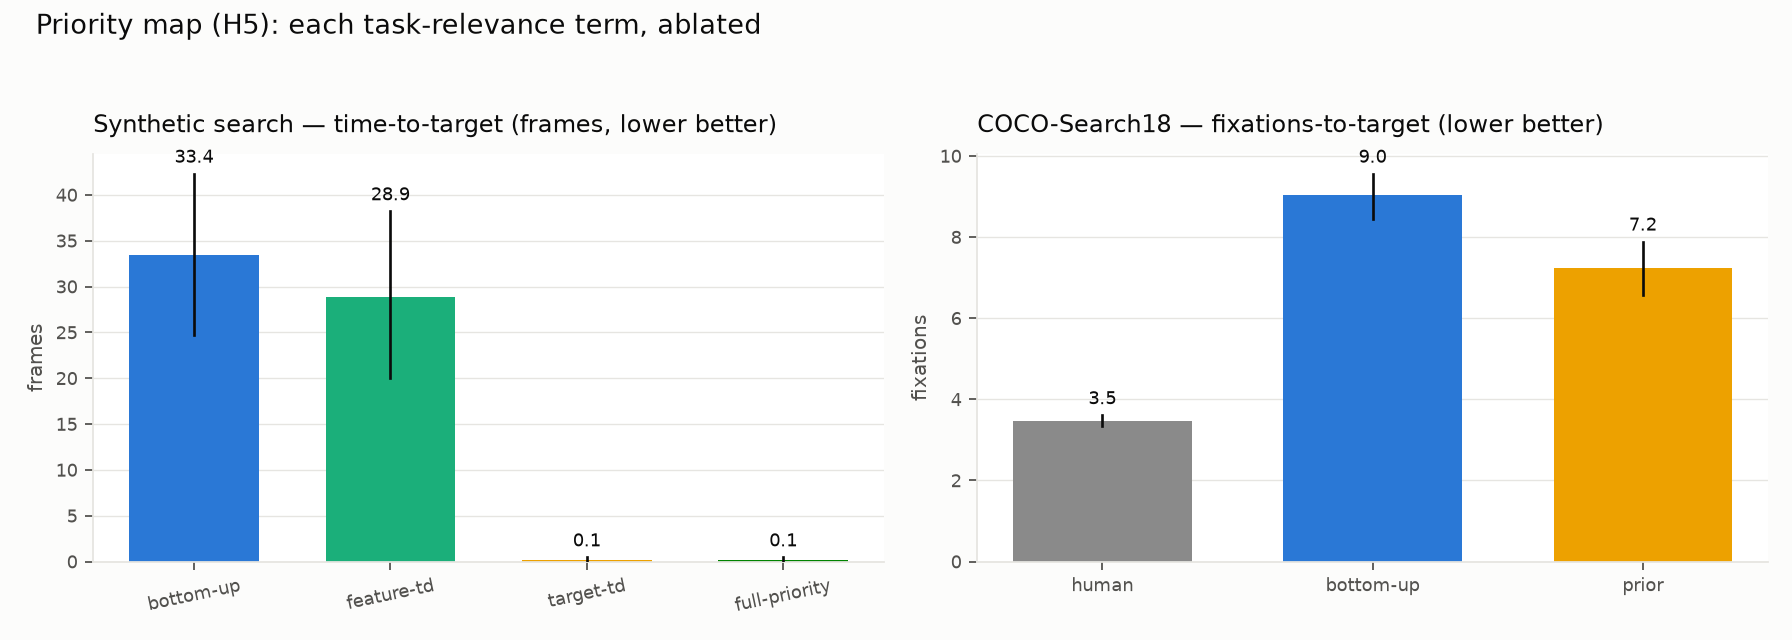
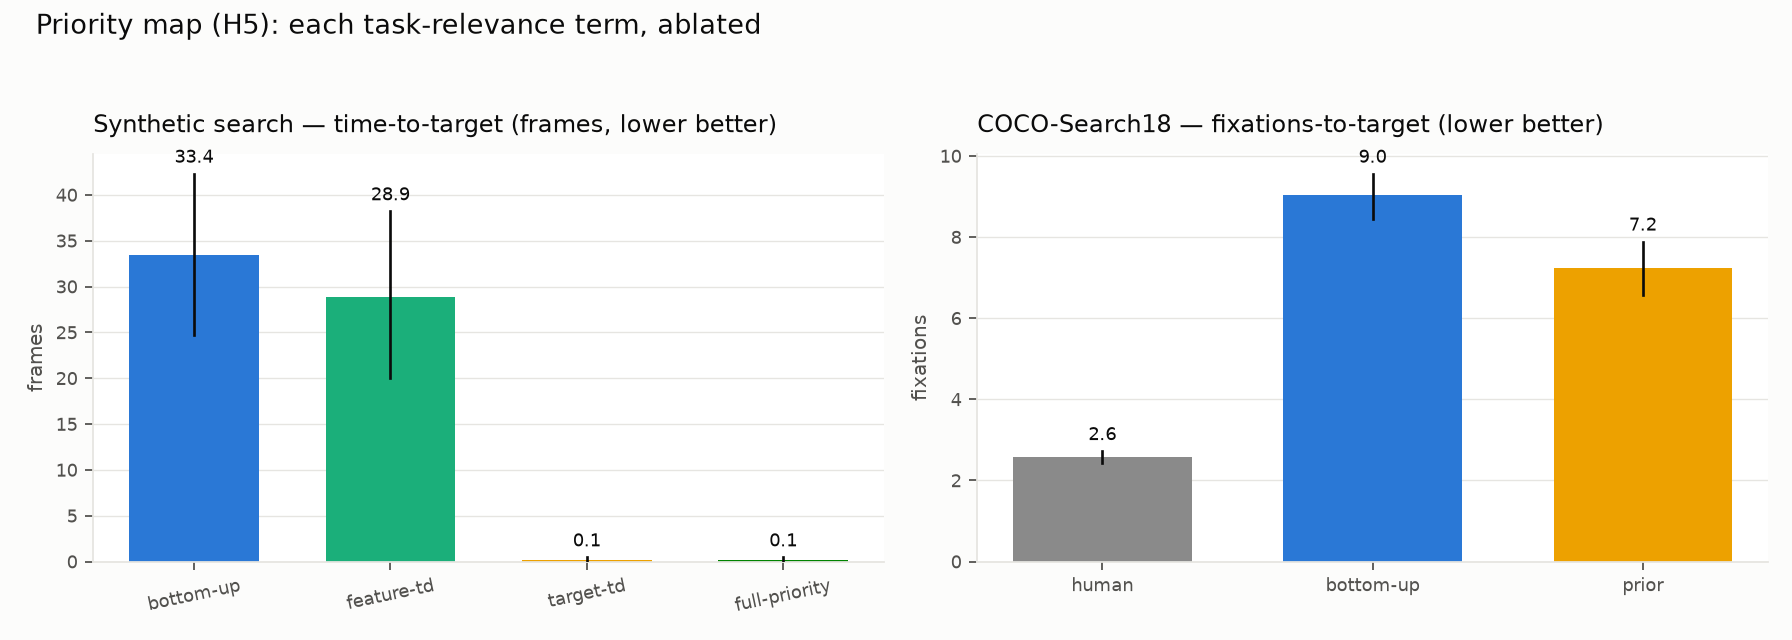
M17: fix review findings — honest COCO baseline, crash guards, dedup
Adversarial review (multi-agent, high) surfaced measurement bugs in the eval
scorers and robustness gaps in the priority core; all fixed:

Measurement (affected published numbers):
- COCO-Search18 human baseline was on a different scale than the model: it
  counted the enforced central start fixation and was uncapped. Strip the
  start fixation (cocosearch18.fixations_to_target skip_initial) and cap human
  ftt at the model budget -> corrected human mean 3.47 -> 2.58 (humans are
  *better* than first reported; the model's gap widens, conclusion unchanged).
- coco_search --cap now plumbs into the model's max_count, so found@N and
  mean-ftt describe the budget the model actually ran.
- priority_search found_rate compared against max(times) instead of the frames
  penalty, so an all-found arm scored <1.0; fixed to the penalty threshold.

Correctness:
- HistoryChannels::apply size-guards the location term (was a cv::Exception on
  a mid-stream resolution change with location history on).
- parse_colour catches non-hex #specs and raises the friendly error, not a raw
  stoi throw.
- TopDownChannel ctor no longer imreads/parses when the channel is off
  (weight 0), so a stale/missing map path can't fail a disabled build.
- make_dynamic_scene --target validates against --objects.

Cleanup: shared study_common.bootstrap_ci (was duplicated); help test for
plot_priority_search.py; unit tests for the colour and size-guard paths.
Numbers and figure re-generated; docs updated.
[…]

Changed region(s): [[0.5625, 0.6562, 0.6875, 0.7188]]

diff --git a/eval/coco_search.py b/eval/coco_search.py
@@ -24,18 +24,22 @@ One command:  eval/coco_search.py --limit 150
 import argparse
 import json
 import os
-import random
 import subprocess
 import sys
 
+sys.path.insert(0, os.path.dirname(os.path.abspath(__file__)))
+from study_common import bootstrap_ci  # noqa: E402
+
 PRIOR_W, PRIOR_H = 336, 210  # prior raster (display aspect); resized by the core
 
+# %(cap)s is the model's fixation budget — the same cap the scores use, so the
+# model never emits more fixations than found@N / mean-ftt account for.
 BOTTOM_UP_YAML = """\
 pipeline:
   fusion: weighted-sum
   selection: ior
 peaks:
-  max_count: 10
+  max_count: %(cap)s
   threshold: 0.05
 output:
   display: false
@@ -118,18 +122,6 @@ def first_hit(fixations, bbox, cap):
     return cap + 1
 
 
-def bootstrap_ci(values, iterations=2000, seed=0):
-    if not values:
-        return (0.0, 0.0)
-    rng = random.Random(seed)
-    means = []
-    for _ in range(iterations):
-        sample = [rng.choice(values) for _ in values]
-        means.append(sum(sample) / len(sample))
-    means.sort()
-    return means[int(0.025 * iterations)], means[int(0.975 * iterations)]
-
-
 def main():
     ap = argparse.ArgumentParser(description=__doc__,
                                  formatter_class=argparse.RawDescriptionHelpFormatter)
@@ -169,18 +161,23 @@ def main():
         w, h = image_size(str(image))
         bbox = records[0]["bbox"]
 
-        # Human baseline: correct trials of this image (1-based fixation index).
+        # Human baseline: correct trials of this image, capped at the same
+        # budget as the model (cap+1 = "not found within budget") so the two
+        # columns are on one scale. The initial central fixation is stripped
+        # inside fixations_to_target, matching the model's first-free-saccade.
         for record in records:
             if record["correct"] != 1:
                 continue
             hit = adapter.fixations_to_target(record, w, h)
-            human.append(hit if hit is not None else args.cap + 1)
+            human.append(min(hit, args.cap + 1) if hit is not None else args.cap + 1)
 
         work = os.path.join(args.out, "runs", "%s_%s" % (task.replace(" ", "_"),
                                                          os.path.splitext(name)[0]))
-        fx = run_model(args.binary, image, BOTTOM_UP_YAML, work, "bottom_up")
+        bottom_up_yaml = BOTTOM_UP_YAML % {"cap": args.cap}
+        fx = run_model(args.binary, image, bottom_up_yaml, work, "bottom_up")
         bottom_up.append(first_hit(fx, bbox, args.cap))
-        prior_yaml = PRIOR_YAML % {"weight": args.top_down_weight, "map": priors[task]}
+        prior_yaml = PRIOR_YAML % {"cap": args.cap, "weight": args.top_down_weight,
+                                   "map": priors[task]}
         fx = run_model(args.binary, image, prior_yaml, work, "prior")
         prior.append(first_hit(fx, bbox, args.cap))
         if (n + 1) % 25 == 0:

diff --git a/tests/test_priority.cpp b/tests/test_priority.cpp
@@ -5,6 +5,7 @@
 #include "attention/config/config_loader.h"
 #include "attention/fusion/priority_map.h"
 #include <catch2/catch_test_macros.hpp>
+#include <catch2/matchers/catch_matchers_string.hpp>
 #include <cstdio>
 #include <fstream>
 #include <string>
@@ -37,6 +38,30 @@ TEST_CASE("parse_colour: named, hex, and rejection", "[priority]")
   CHECK(fusion::parse_colour("red") == cv::Vec3b(0, 0, 220));
   CHECK(fusion::parse_colour("#0080ff") == cv::Vec3b(255, 128, 0)); // BGR
   CHECK_THROWS_AS(fusion::parse_colour("not-a-colour"), std::runtime_error);
+  // A #-prefixed non-hex spec still surfaces the friendly error, not a raw
+  // stoi std::invalid_argument.
+  CHECK_THROWS_WITH(fusion::parse_colour("#gggggg"), Catch::Matchers::ContainsSubstring("Unparseable"));
+}
+
+TEST_CASE("inactive top-down channel ignores a stale/missing map path", "[priority]")
+{
+  // weight 0 = channel off: a leftover (here missing) map path must not throw
+  // at construction.
+  fusion::PriorityConfig config;
+  config.top_down_map_path = "no/such/map.png";
+  CHECK_NOTHROW(fusion::TopDownChannel(config));
+}
+
+TEST_CASE("location history term is size-guarded against a resolution change", "[priority]")
+{
+  fusion::PriorityConfig config;
+  config.location_history_weight = 1.0f;
+  fusion::HistoryChannels history(config);
+  history.decay_and_record(cv::Point(10, 10), cv::Size(120, 80), true);
+
+  // A later frame at a different resolution must not throw a size mismatch.
+  cv::Mat smaller(40, 60, CV_32F, cv::Scalar(0.5f));
+  CHECK_NOTHROW(history.apply(smaller, {}));
 }
 
 TEST_CASE("inactive channels leave the map untouched (bit-identical default)", "[priority]")

diff --git a/eval/priority_search.py b/eval/priority_search.py
@@ -26,9 +26,11 @@ scene generation; scoring is stdlib-only)
 import argparse
 import json
 import os
-import random
 import subprocess
 import sys
+
+sys.path.insert(0, os.path.dirname(os.path.abspath(__file__)))
+from study_common import bootstrap_ci  # noqa: E402
 
 ARMS = ["bottom-up", "feature-td", "target-td", "full-priority"]
 
@@ -117,18 +119,6 @@ def score(gt, scanpath, match_radius):
     return float(first), hold
 
 
-def bootstrap_ci(values, iterations=2000, seed=0):
-    if not values:
-        return (0.0, 0.0)
-    rng = random.Random(seed)
-    means = []
-    for _ in range(iterations):
-        sample = [rng.choice(values) for _ in values]
-        means.append(sum(sample) / len(sample))
-    means.sort()
-    return means[int(0.025 * iterations)], means[int(0.975 * iterations)]
-
-
 def study(args):
     results = {arm: {"time": [], "hold": []} for arm in ARMS}
     for seed in range(args.seeds):
@@ -149,16 +139,18 @@ def study(args):
     return results
 
 
-def summarize(results):
+def summarize(results, penalty):
     summary = {}
     for arm in ARMS:
         times, holds = results[arm]["time"], results[arm]["hold"]
         t_lo, t_hi = bootstrap_ci(times)
         h_lo, h_hi = bootstrap_ci(holds)
+        # score() returns exactly `penalty` (= frames) for a never-found run;
+        # anything strictly below it is a genuine acquisition.
         summary[arm] = {
             "time_to_target": sum(times) / len(times), "time_ci": [t_lo, t_hi],
             "hold_fraction": sum(holds) / len(holds), "hold_ci": [h_lo, h_hi],
-            "found_rate": sum(1 for t in times if t < max(times) or t == 0) / len(times),
+            "found_rate": sum(1 for t in times if t < penalty) / len(times),
             "runs": len(times),
         }
     return summary
@@ -193,7 +185,7 @@ def main():
         sys.exit("binary not found: %s (build first: cmake --build build)" % args.binary)
 
     results = study(args)
-    summary = summarize(results)
+    summary = summarize(results, args.frames)
     print(format_table(summary, args.frames))
 
     os.makedirs(args.out, exist_ok=True)

diff --git a/src/fusion/priority_map.cpp b/src/fusion/priority_map.cpp
@@ -62,16 +62,27 @@ cv::Vec3b parse_colour(const std::string& spec)
   }
   if (spec.size() == 7 && spec[0] == '#')
   {
-    const int r = std::stoi(spec.substr(1, 2), nullptr, 16);
-    const int g = std::stoi(spec.substr(3, 2), nullptr, 16);
-    const int b = std::stoi(spec.substr(5, 2), nullptr, 16);
-    return cv::Vec3b(static_cast<uchar>(b), static_cast<uchar>(g), static_cast<uchar>(r));
+    try
+    {
+      const int r = std::stoi(spec.substr(1, 2), nullptr, 16);
+      const int g = std::stoi(spec.substr(3, 2), nullptr, 16);
+      const int b = std::stoi(spec.substr(5, 2), nullptr, 16);
+      return cv::Vec3b(static_cast<uchar>(b), static_cast<uchar>(g), static_cast<uchar>(r));
+    }
+    catch (const std::exception&)
+    {
+      // Fall through to the friendly error rather than surfacing a raw stoi throw.
+    }
   }
   throw std::runtime_error("Unparseable colour '" + spec + "' (use #rrggbb or a named colour)");
 }
 
 TopDownChannel::TopDownChannel(const PriorityConfig& config) : config_(config)
 {
+  if (!config_.top_down_active())
+  {
+    return; // channel off (weight 0): don't touch a leftover map path or colour
+  }
   if (!config_.top_down_map_path.empty())
   {
     const cv::Mat loaded = cv::imread(config_.top_down_map_path, cv::IMREAD_GRAYSCALE);
@@ -192,7 +203,10 @@ cv::Mat HistoryChannels::apply(const cv::Mat& saliency, const std::vector<system
     }
     priority += config_.object_value_weight * value_map;
   }
-  if (config_.location_history_weight > 0.0f && !location_.empty())
+  // Size-guard the location term: apply() runs at the top of the frame, before
+  // decay_and_record() rebuilds location_ for the current frame — so on a
+  // stream whose resolution changes, last frame's map may not match.
+  if (config_.location_history_weight > 0.0f && location_.size() == saliency.size())
   {
     priority += config_.location_history_weight * location_;
   }

diff --git a/eval/datasets/cocosearch18.py b/eval/datasets/cocosearch18.py
@@ -73,14 +73,20 @@ def display_to_image(x, y, image_w, image_h):
     return (x - x_off) / scale, (y - y_off) / scale
 
 
-def fixations_to_target(record, image_w, image_h):
-    """1-based index of the first fixation inside the target bbox, or None if
-    the trial never fixates it. Fixations are converted to image coordinates."""
+def fixations_to_target(record, image_w, image_h, skip_initial=True):
+    """Count of search fixations until the first one inside the target bbox, or
+    None if the trial never fixates it. Fixations are converted to image
+    coordinates. COCO-Search18 records begin with the enforced central start
+    fixation (X[0]/Y[0]); skip_initial drops it so the count is comparable to a
+    model whose first fixation is already its first free saccade — the count
+    then means "search saccades to target", 1-based, with the start excluded."""
     bx, by, bw, bh = record["bbox"]
-    for i, (dx, dy) in enumerate(zip(record["X"], record["Y"])):
-        x, y = display_to_image(dx, dy, image_w, image_h)
+    xs, ys = record["X"], record["Y"]
+    start = 1 if skip_initial else 0
+    for i in range(start, len(xs)):
+        x, y = display_to_image(xs[i], ys[i], image_w, image_h)
         if bx <= x <= bx + bw and by <= y <= by + bh:
-            return i + 1
+            return i if skip_initial else i + 1
     return None
 
 

diff --git a/eval/study_common.py b/eval/study_common.py
@@ -1,0 +1,17 @@
+"""Small helpers shared by the study scorers (eval/priority_search.py,
+eval/coco_search.py). Stdlib only, so the non-dataset arms need no venv."""
+
+import random
+
+
+def bootstrap_ci(values, iterations=2000, seed=0):
+    """Bootstrap 95% CI of the mean of `values` (deterministic given `seed`)."""
+    if not values:
+        return (0.0, 0.0)
+    rng = random.Random(seed)
+    means = []
+    for _ in range(iterations):
+        sample = [rng.choice(values) for _ in values]
+        means.append(sum(sample) / len(sample))
+    means.sort()
+    return means[int(0.025 * iterations)], means[int(0.975 * iterations)]

diff --git a/tools/make_dynamic_scene.py b/tools/make_dynamic_scene.py
@@ -123,6 +123,10 @@ def main():
                     help="mark this object id as the (red) search target — M17 priority-map study")
     args = ap.parse_args()
 
+    if args.target is not None and not (0 <= args.target < args.objects):
+        ap.error("--target %d is out of range for --objects %d (ids 0..%d)"
+                 % (args.target, args.objects, args.objects - 1))
+
     objects = build_scene(args)
     render(objects, args)
     write_ground_truth(objects, args)

diff --git a/docs/PRIORITY_MAP.md b/docs/PRIORITY_MAP.md
@@ -76,9 +76,12 @@ mean fixations-to-target, cap+1 when never found):
 
 | arm | mean fixations-to-target | found@10 |
 |---|---|---|
-| human (1375 correct trials) | 3.47 [3.34, 3.61] | 0.92 |
+| human (1375 correct trials) | 2.58 [2.43, 2.72] | 0.92 |
 | bottom-up | 9.03 [8.43, 9.56] | 0.27 |
 | prior (category prior in the channel) | **7.23 [6.57, 7.89]** | **0.52** |
+
+*(Human fixations-to-target excludes the enforced central start fixation and
+is capped at the model's budget, so all three rows are on one scale.)*
 
 ## Reading the results
 
@@ -112,7 +115,7 @@ found@10 (0.27 → 0.52). Two honest framings:
   patch-similarity, an open-vocabulary detector, an LLM) sees the actual image
   and should do strictly better. That upgrade is M18's, and it needs no core
   change — it writes the same `top_down_map`.
-- The model stays **well short of human** (7.23 vs 3.47; found@10 0.52 vs
+- The model stays **well short of human** (7.23 vs 2.58; found@10 0.52 vs
   0.92). A bottom-up-plus-prior controller is not a search model of human
   gaze, and this milestone does not claim to be one. What H5 claims — that the
   priority terms improve task-driven efficiency, separably — is supported on

diff --git a/docs/V3_ROADMAP.md b/docs/V3_ROADMAP.md
@@ -346,7 +346,7 @@ top-down channel is decisive (time-to-target 33.4 → 0.1 frames)** while
 feature-*dimension* weighting is an honest near-null (28.9, CIs overlap) and
 the history term buys target-hold not acquisition (0.10 → 0.16); on
 **COCO-Search18 a content-blind category prior in the channel cuts mean
-fixations-to-target 9.03 → 7.23 and lifts found@10 0.27 → 0.52** (human 3.47 /
+fixations-to-target 9.03 → 7.23 and lifts found@10 0.27 → 0.52** (human 2.58 /
 0.92) — a lower bound on what a semantic source in the same slot (M18) buys.
 COCO-Search18 adapter added. Full story: `docs/PRIORITY_MAP.md`.
 